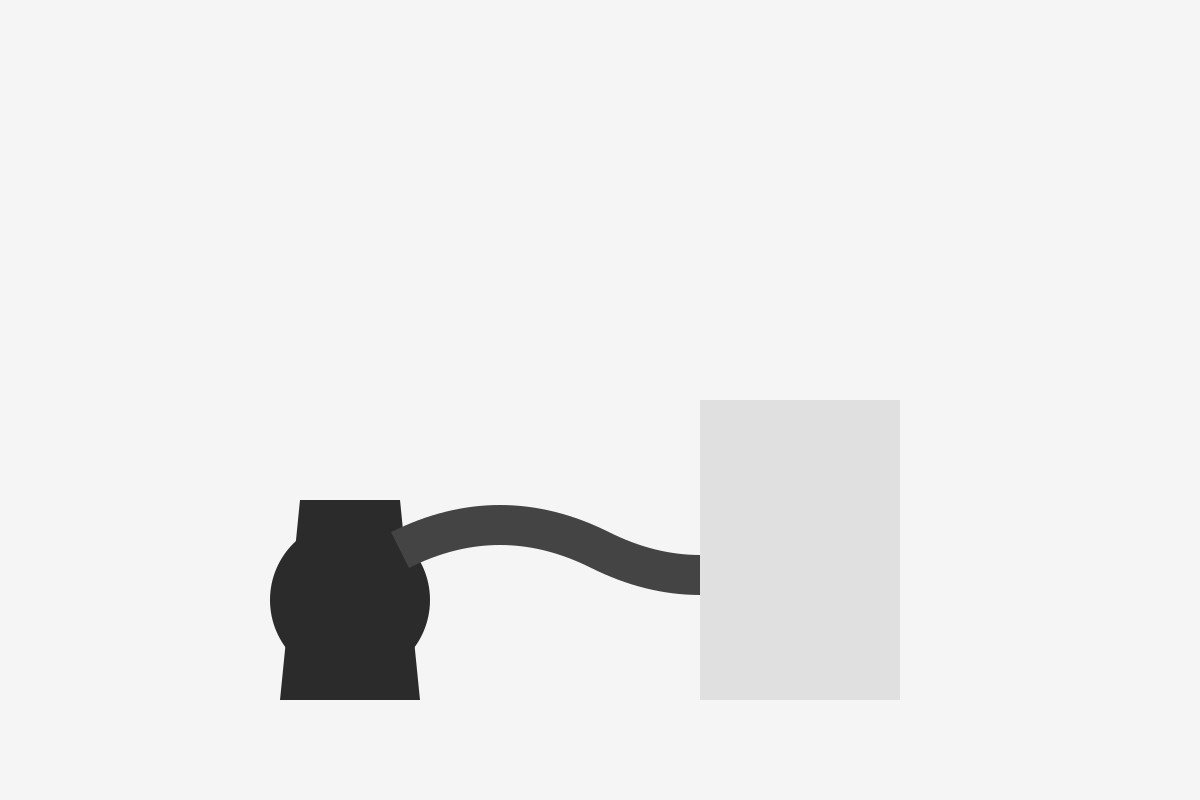
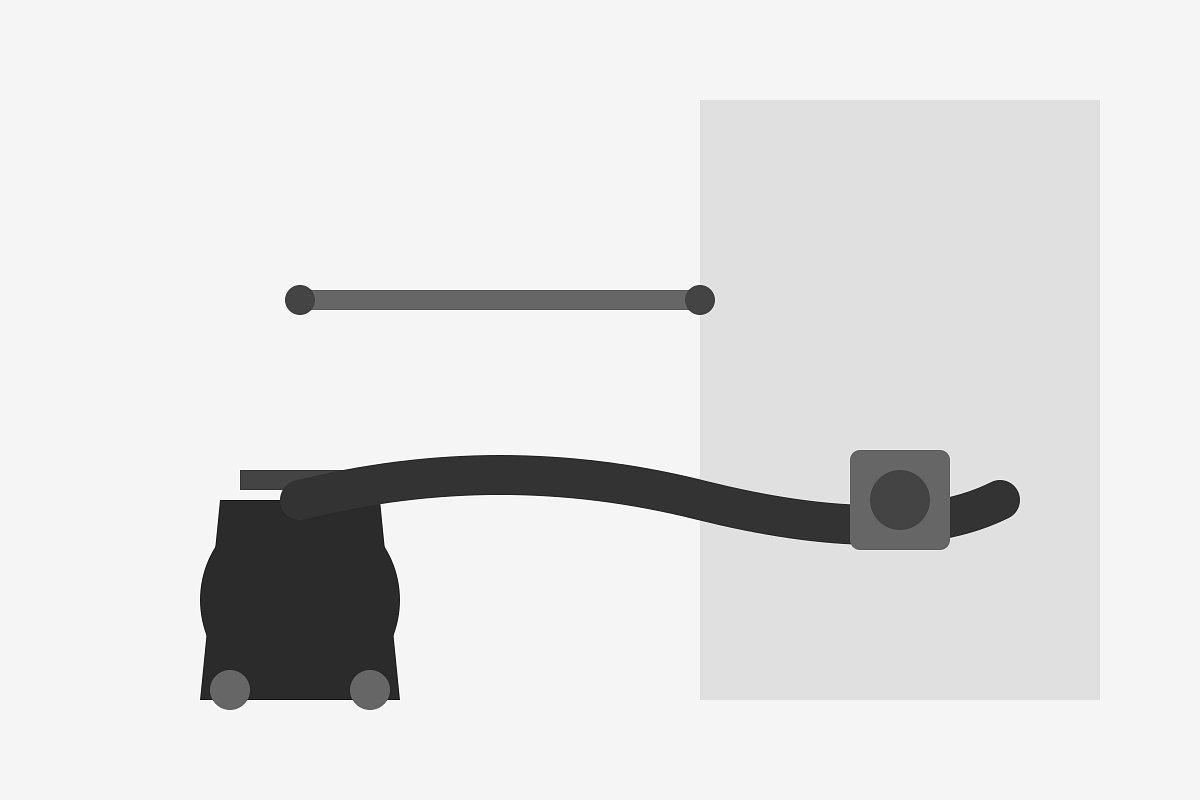
Agent query: Are the images of the dryer vent cleaning process (showing cleaning rods and shop vac) now visible on the website?
Update SVG images for dryer vent cleaning services and improve image generation process.

Screenshot: https://storage.googleapis.com/screenshot-production-us-central1/1a3b74f4-8215-416b-920c-b95f74ecd93f/5bf608af-6e59-42ae-9be7-02b87b6c28cd.jpg

Changed region(s): [[0.1542, 0.5625, 0.8633, 0.9062], [0.2158, 0.3438, 0.6167, 0.4062]]

diff --git a/scripts/generate-images.js b/scripts/generate-images.js
@@ -6,75 +6,37 @@ async function generateImages() {
   // Create the public/images directory if it doesn't exist
   await fs.mkdir('public/images', { recursive: true });
 
-  // Generate service image - Technician with cleaning rod
-  const serviceImage = sharp({
-    create: {
-      width: 1200,
-      height: 800,
-      channels: 4,
+  // Read the SVG files
+  const serviceSvg = await fs.readFile('public/images/dryer-vent-cleaning-service.svg');
+  const processSvg = await fs.readFile('public/images/dryer-vent-cleaning-process.svg');
+
+  // Generate service image with high quality settings
+  await sharp(serviceSvg)
+    .resize(1200, 800, {
+      fit: 'contain',
       background: { r: 245, g: 245, b: 245, alpha: 1 }
-    }
-  })
-  .composite([
-    {
-      input: Buffer.from(`
-        <svg xmlns="http://www.w3.org/2000/svg" width="1200" height="800">
-          <rect width="1200" height="800" fill="#f5f5f5"/>
-          <!-- Wall and Dryer Vent -->
-          <rect x="200" y="200" width="800" height="400" fill="#e0e0e0"/>
-          <circle cx="400" cy="400" r="50" fill="#666"/>
-          <!-- Cleaning Rod -->
-          <rect x="400" y="390" width="400" height="20" fill="#444" transform="rotate(15, 400, 400)"/>
-          <!-- Technician -->
-          <path d="M700 300 Q750 250 800 300 L800 500 L700 500 Z" fill="#2B3F6B"/>
-          <circle cx="750" cy="250" r="40" fill="#FFD6B1"/>
-          <!-- Safety Equipment -->
-          <rect x="730" y="240" width="40" height="20" fill="#fff"/>
-        </svg>`),
-      top: 0,
-      left: 0
-    }
-  ])
-  .sharpen()
-  .jpeg({ quality: 90 });
+    })
+    .sharpen()
+    .jpeg({ 
+      quality: 100,
+      chromaSubsampling: '4:4:4'
+    })
+    .toFile('public/images/dryer-vent-cleaning-service.jpg');
 
-  // Generate process image - Shop vac setup
-  const processImage = sharp({
-    create: {
-      width: 1200,
-      height: 800,
-      channels: 4,
+  // Generate process image with high quality settings
+  await sharp(processSvg)
+    .resize(1200, 800, {
+      fit: 'contain',
       background: { r: 245, g: 245, b: 245, alpha: 1 }
-    }
-  })
-  .composite([
-    {
-      input: Buffer.from(`
-        <svg xmlns="http://www.w3.org/2000/svg" width="1200" height="800">
-          <rect width="1200" height="800" fill="#f5f5f5"/>
-          <!-- Shop Vac -->
-          <path d="M300 500 L400 500 L420 700 L280 700 Z" fill="#2B2B2B"/>
-          <circle cx="350" cy="600" r="80" fill="#2B2B2B"/>
-          <!-- Hose -->
-          <path d="M400 550 Q500 500 600 550 Q700 600 800 550" 
-                stroke="#444" stroke-width="40" fill="none"/>
-          <!-- Dryer Vent Opening -->
-          <rect x="750" y="500" width="100" height="100" rx="10" fill="#666"/>
-          <!-- Wall -->
-          <rect x="700" y="400" width="200" height="300" fill="#e0e0e0"/>
-        </svg>`),
-      top: 0,
-      left: 0
-    }
-  ])
-  .sharpen()
-  .jpeg({ quality: 90 });
+    })
+    .sharpen()
+    .jpeg({ 
+      quality: 100,
+      chromaSubsampling: '4:4:4'
+    })
+    .toFile('public/images/dryer-vent-cleaning-process.jpg');
 
-  // Save the images
-  await serviceImage.toFile('public/images/dryer-vent-cleaning-service.jpg');
-  await processImage.toFile('public/images/dryer-vent-cleaning-process.jpg');
-
-  console.log('Images generated successfully!');
+  console.log('Images generated successfully with high quality settings!');
 }
 
 generateImages().catch(console.error);
